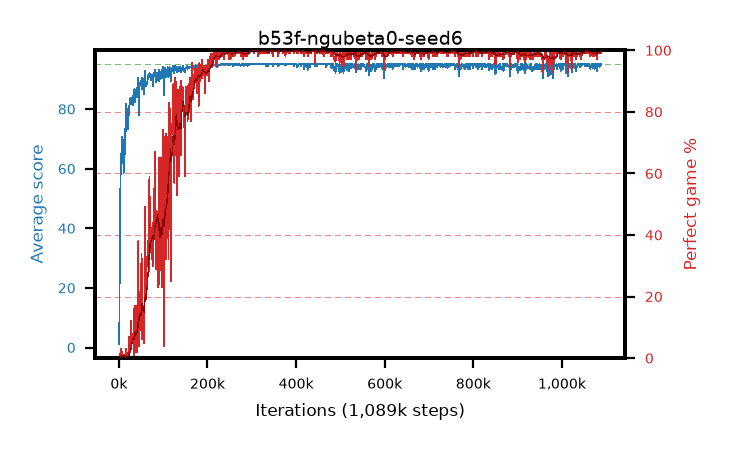
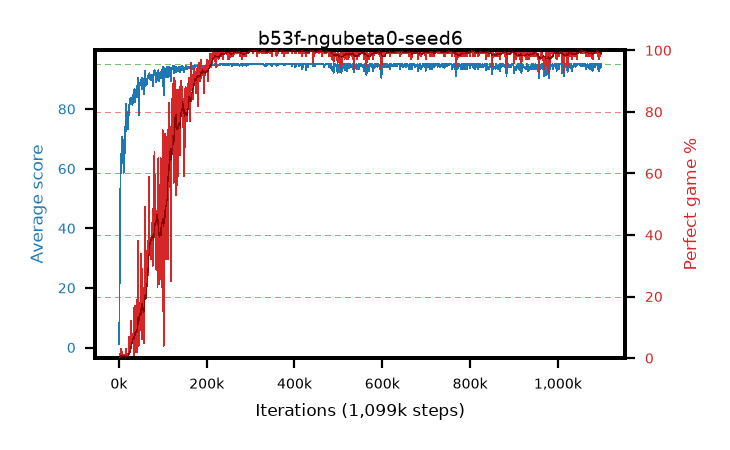
live pictures of 4 arm(s)

diff --git a/results/b53f-ngubeta0-seed6/b53f-ngubeta0-seed6.md b/results/b53f-ngubeta0-seed6/b53f-ngubeta0-seed6.md
@@ -1,6 +1,6 @@
 # b53f-ngubeta0-seed6
 
-step **1,089,000** · 1089 evals · trailing **94.54** · peak **94.99** @323,000 · sef **87.6** · best30 **99.8** @323,000
+step **1,099,000** · 1099 evals · trailing **94.48** · peak **94.99** @323,000 · sef **87.7** · best30 **99.8** @323,000
 
 ## Config
 
@@ -80,15 +80,15 @@ step **1,089,000** · 1089 evals · trailing **94.54** · peak **94.99** @323,00
 | 2000 | 35.17 | 18.16 | 10.0 | 67.0 | 29.965 | 0.0 | 0.4 |
 | 3000 | 47.63 | 27.98 | 1.0 | 93.0 | 42.642 | 0.0 | 0.4 |
 | ... | ... | ... | ... | ... | ... | ... | ... |
-| 1078000 | 93.57 | 94.56 | 20.0 | 95.0 | 190.274 | 98.0 | 0.4 |
-| 1079000 | 92.72 | 94.49 | 12.0 | 95.0 | 188.402 | 97.0 | 0.4 |
-| 1080000 | 95.0 | 94.49 | 95.0 | 95.0 | 193.782 | 100.0 | 0.4 |
-| 1081000 | 95.0 | 94.49 | 95.0 | 95.0 | 193.785 | 100.0 | 0.4 |
-| 1082000 | 95.0 | 94.51 | 95.0 | 95.0 | 193.779 | 100.0 | 0.4 |
-| 1083000 | 95.0 | 94.51 | 95.0 | 95.0 | 193.789 | 100.0 | 0.4 |
-| 1084000 | 95.0 | 94.51 | 95.0 | 95.0 | 193.781 | 100.0 | 0.4 |
-| 1085000 | 94.13 | 94.51 | 8.0 | 95.0 | 191.874 | 99.0 | 0.4 |
-| 1086000 | 95.0 | 94.51 | 95.0 | 95.0 | 193.78 | 100.0 | 0.4 |
-| 1087000 | 95.0 | 94.53 | 95.0 | 95.0 | 193.776 | 100.0 | 0.4 |
 | 1088000 | 95.0 | 94.53 | 95.0 | 95.0 | 193.793 | 100.0 | 0.4 |
 | 1089000 | 94.67 | 94.54 | 62.0 | 95.0 | 192.41 | 99.0 | 0.4 |
+| 1090000 | 95.0 | 94.54 | 95.0 | 95.0 | 193.789 | 100.0 | 0.4 |
+| 1091000 | 94.29 | 94.52 | 24.0 | 95.0 | 192.038 | 99.0 | 0.4 |
+| 1092000 | 93.47 | 94.47 | 16.0 | 95.0 | 190.18 | 98.0 | 0.4 |
+| 1093000 | 95.0 | 94.49 | 95.0 | 95.0 | 193.777 | 100.0 | 0.4 |
+| 1094000 | 92.78 | 94.47 | 14.0 | 95.0 | 188.458 | 97.0 | 0.4 |
+| 1095000 | 94.22 | 94.47 | 17.0 | 95.0 | 191.97 | 99.0 | 0.4 |
+| 1096000 | 95.0 | 94.49 | 95.0 | 95.0 | 193.788 | 100.0 | 0.4 |
+| 1097000 | 93.7 | 94.45 | 24.0 | 95.0 | 190.404 | 98.0 | 0.4 |
+| 1098000 | 95.0 | 94.45 | 95.0 | 95.0 | 193.794 | 100.0 | 0.4 |
+| 1099000 | 95.0 | 94.48 | 95.0 | 95.0 | 193.781 | 100.0 | 0.4 |
